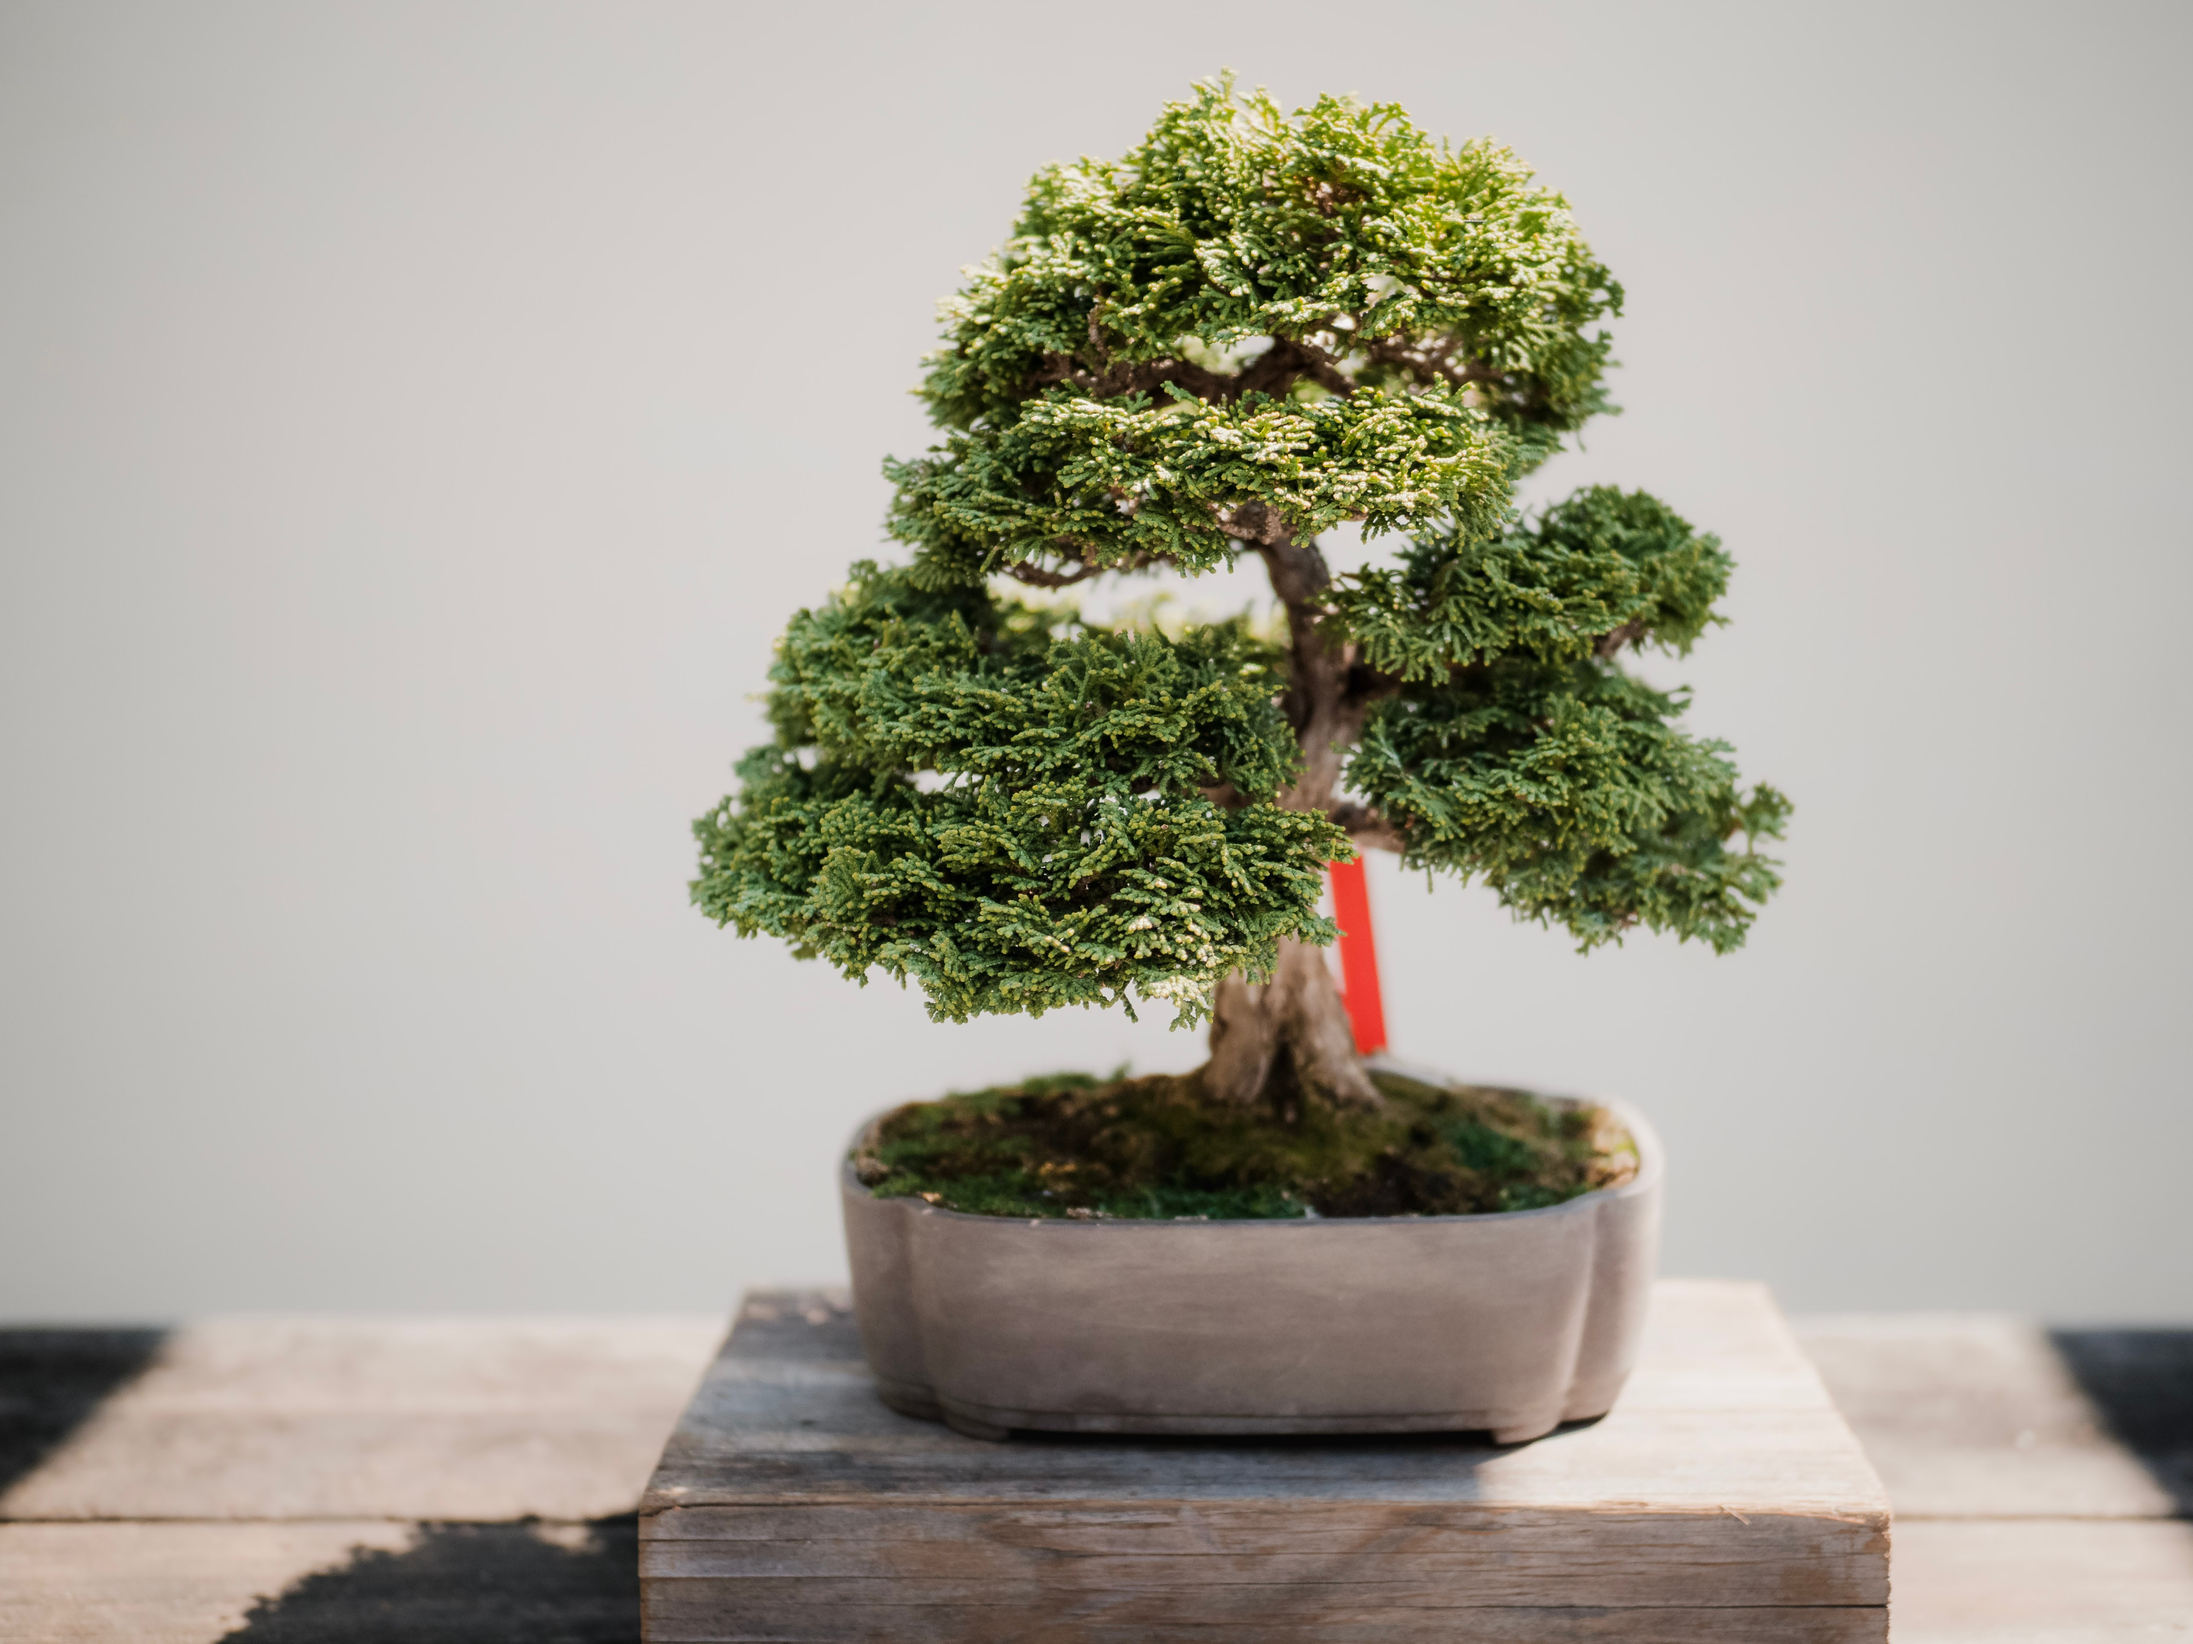
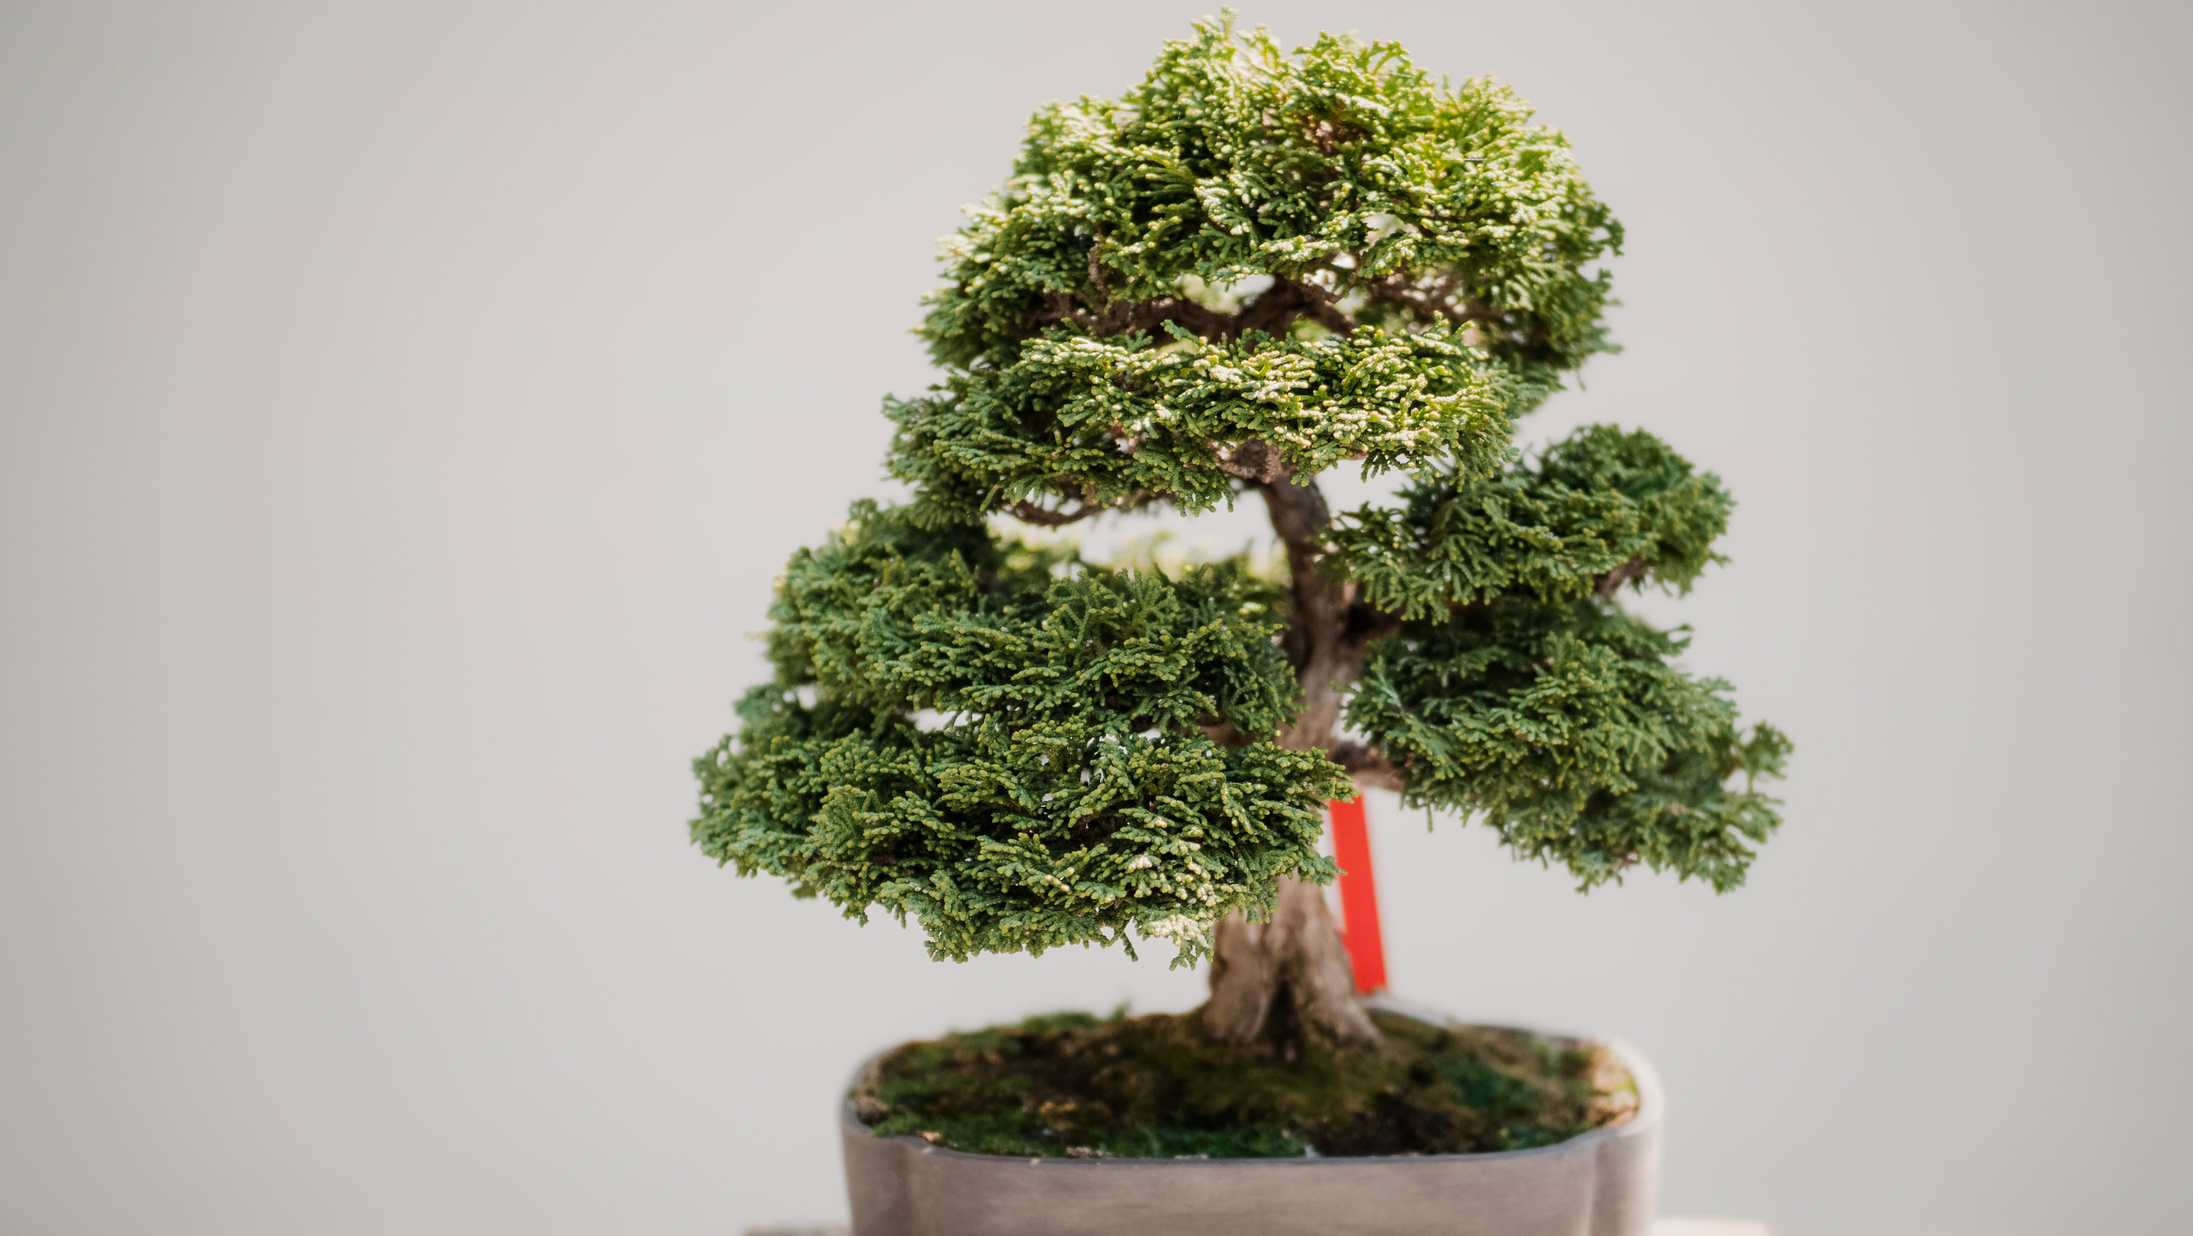
styled bonsai tree article and flexed and edited width

diff --git a/css/style.css b/css/style.css
@@ -206,4 +206,12 @@ header {
     display: flex;
 }
 
+.section-art figure {
+    max-width: 50%;
+}
+
+.section-art img {
+    max-width: 100%;
+}
+
 
